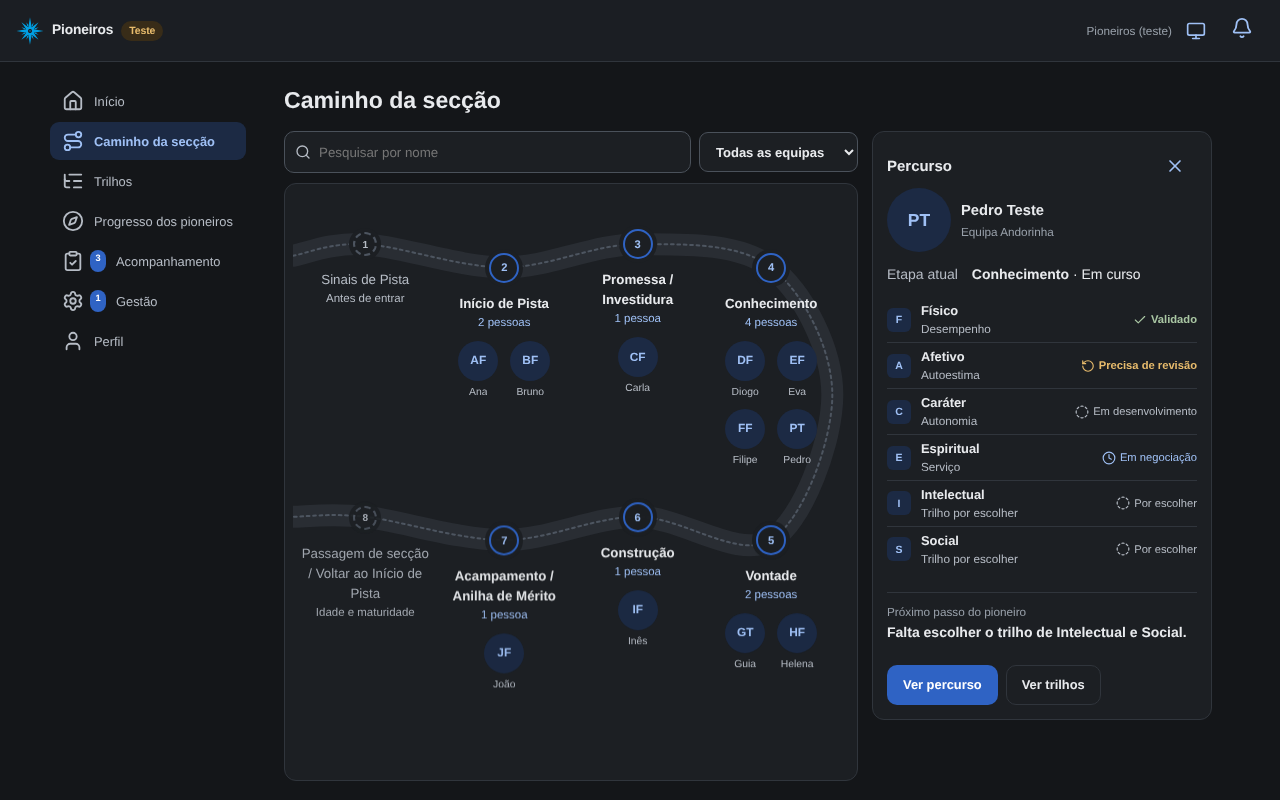
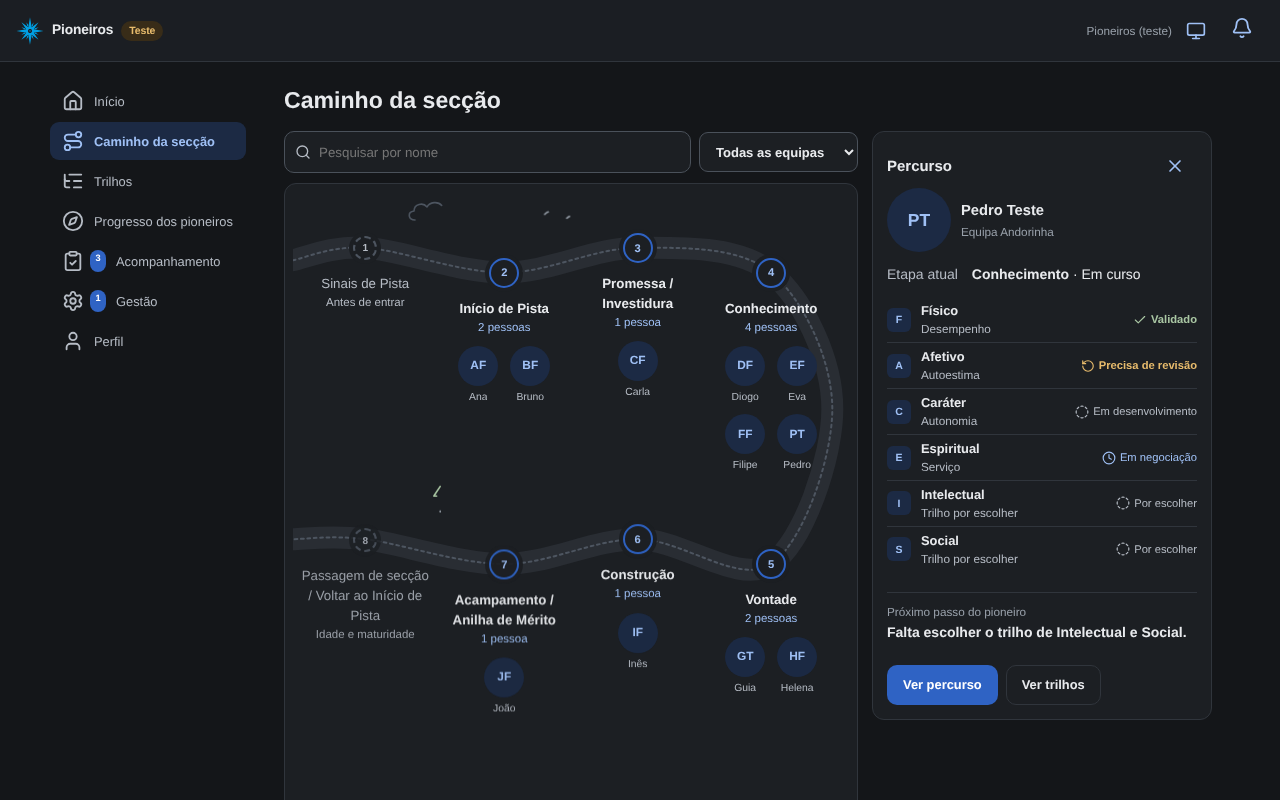
Mapa com desenhos animados em traço de lápis
- Pinheiros, árvores, nuvens, pássaros e um acampamento (tenda e fogueira)
  desenhados à mão nos espaços livres do mapa, sem tapar marcos nem pessoas
- Desenham-se ao abrir (traço a traço) e depois mexem-se devagar: árvores
  ao vento, nuvens a passar, pássaros a voar, fogueira a tremeluzir
- No percurso pessoal, uma bandeira a ondular marca «estás aqui»
- Só decoração (aria-hidden, sem cliques); com movimento reduzido ficam parados

Claude-Session: https://claude.ai/code/session_01RHnng4HnqckYC12h8qqyAi

diff --git a/src/components/caminho/Doodles.tsx b/src/components/caminho/Doodles.tsx
@@ -1,0 +1,130 @@
+// Desenhos do mapa, em traço de lápis: pinheiros, árvores, nuvens, pássaros e um
+// acampamento. São só decoração (aria-hidden, sem cliques) e ficam nos espaços
+// livres, sem tapar marcos nem pessoas. Desenham-se ao abrir e depois mexem-se
+// devagar; com «movimento reduzido» ficam parados.
+import type { CSSProperties, ReactNode } from 'react';
+
+type Kind = 'pine' | 'tree' | 'cloud' | 'birds' | 'tent' | 'fire' | 'flag' | 'grass';
+
+const SIZE: Record<Kind, [number, number]> = {
+  pine: [28, 40], tree: [32, 38], cloud: [62, 26], birds: [44, 20], tent: [58, 40], fire: [30, 34], flag: [26, 34], grass: [30, 12],
+};
+
+function Shape({ kind }: { kind: Kind }): ReactNode {
+  const p = { pathLength: 1, vectorEffect: 'non-scaling-stroke' as const };
+  switch (kind) {
+    case 'pine':
+      return (
+        <g className="sway">
+          <path {...p} className="ink-green" d="M14 3 L6 15 H10 L4 25 H9 L2 34 H26 L19 25 H24 L18 15 H22 Z" />
+          <path {...p} className="ink-soft" d="M14 34 V39" />
+        </g>
+      );
+    case 'tree':
+      return (
+        <g className="sway">
+          <path {...p} className="ink-green fill-green" d="M16 4 C8 4 4 10 6 15 C2 18 4 26 11 26 C13 29 20 29 22 26 C29 26 31 18 27 15 C29 9 24 4 16 4 Z" />
+          <path {...p} className="ink-soft" d="M16 26 V37 M16 31 L12 27 M16 30 L20 26" />
+        </g>
+      );
+    case 'cloud':
+      return (
+        <g className="drift">
+          <path {...p} className="ink-faint fill-card" d="M10 22 C3 22 2 14 9 13 C9 6 18 4 22 9 C25 3 36 3 38 10 C44 6 53 9 52 15 C59 15 60 22 53 22 Z" />
+        </g>
+      );
+    case 'birds':
+      return (
+        <g className="flap">
+          <path {...p} className="ink-soft" d="M2 10 Q7 4 11 9 Q15 4 20 10" />
+          <path {...p} className="ink-soft" d="M24 15 Q28 10 31 14 Q34 10 38 15" />
+        </g>
+      );
+    case 'tent':
+      return (
+        <g>
+          <path {...p} className="ink-accent fill-tint" d="M4 37 L29 5 L54 37 Z" />
+          <path {...p} className="ink-accent" d="M29 5 L29 37 M22 37 L29 22 L36 37 M26 5 L29 1 L32 5" />
+          <path {...p} className="ink-soft" d="M1 38 H57" />
+        </g>
+      );
+    case 'fire':
+      return (
+        <g>
+          <g className="flicker">
+            <path {...p} className="ink-amber fill-amber" d="M15 4 C19 11 24 14 22 21 C21 26 9 26 8 21 C7 16 12 14 11 9 C13 11 14 12 15 4 Z" />
+            <path {...p} className="ink-amber" d="M15 14 C17 17 18 19 17 22 C16 24 13 24 13 22 C12 20 14 18 15 14 Z" />
+          </g>
+          <path {...p} className="ink-soft" d="M4 31 L26 25 M4 25 L26 31" />
+        </g>
+      );
+    case 'flag':
+      return (
+        <g>
+          <path {...p} className="ink-soft" d="M5 33 V3" />
+          <path {...p} className="ink-accent fill-tint wave" d="M5 4 C11 1 15 7 22 4 V16 C15 19 11 13 5 16 Z" />
+        </g>
+      );
+    case 'grass':
+      return <path {...p} className="ink-green" d="M2 11 Q4 4 6 11 M8 11 Q11 2 13 11 M16 11 Q18 5 20 11 M22 11 Q25 3 27 11" />;
+  }
+}
+
+export interface DoodleSpot {
+  kind: Kind;
+  /** Posição: no computador em % (x, y); no telemóvel x em % e y em px. */
+  at?: [string, string];
+  scale?: number;
+  delay?: number;
+}
+
+export function Doodle({ kind, at, scale = 1, delay = 0, className = '' }: DoodleSpot & { className?: string }) {
+  const [w, h] = SIZE[kind];
+  const style = { ...(at ? { left: at[0], top: at[1] } : {}), width: w * scale, height: h * scale, '--d': `${delay}ms` } as CSSProperties;
+  return (
+    <svg className={`doodle ${className}`} style={style} viewBox={`0 0 ${w} ${h}`} aria-hidden="true" focusable="false">
+      <Shape kind={kind} />
+    </svg>
+  );
+}
+
+// Computador: nuvens e pássaros em cima, árvores nos intervalos entre colunas,
+// e um pequeno acampamento em baixo.
+const WIDE_SPOTS: DoodleSpot[] = [
+  { kind: 'cloud', at: ['22%', '1%'], delay: 100 },
+  { kind: 'birds', at: ['47%', '2%'], delay: 250 },
+  { kind: 'cloud', at: ['70%', '0.5%'], scale: 0.8, delay: 400 },
+  { kind: 'pine', at: ['24.5%', '47%'], scale: 0.8, delay: 300 },
+  { kind: 'tree', at: ['48.6%', '46%'], scale: 0.8, delay: 450 },
+  { kind: 'pine', at: ['72.6%', '47%'], scale: 0.85, delay: 600 },
+  { kind: 'pine', at: ['4%', '89%'], delay: 500 },
+  { kind: 'tree', at: ['9%', '88%'], scale: 0.9, delay: 600 },
+  { kind: 'grass', at: ['30%', '95%'], delay: 700 },
+  { kind: 'fire', at: ['60%', '89%'], delay: 800 },
+  { kind: 'tent', at: ['65%', '87.5%'], delay: 900 },
+  { kind: 'pine', at: ['88%', '88%'], scale: 0.9, delay: 1000 },
+  { kind: 'pine', at: ['92%', '87%'], delay: 1100 },
+];
+
+// Telemóvel: pinheiros à esquerda do trilho quando ele faz curva para a direita,
+// nuvens em cima e o acampamento no fim.
+export function narrowSpots(step: number, top: number, height: number): DoodleSpot[] {
+  const trees: DoodleSpot[] = [1, 3, 5].map((i, n) => ({ kind: n % 2 ? 'tree' : 'pine', at: ['1%', `${top + i * step - 12}px`], scale: 0.7, delay: 200 + n * 150 }));
+  return [
+    { kind: 'cloud', at: ['58%', '2px'], scale: 0.7, delay: 100 },
+    { kind: 'birds', at: ['80%', '10px'], scale: 0.8, delay: 250 },
+    ...trees,
+    { kind: 'pine', at: ['46%', `${height - 52}px`], scale: 0.9, delay: 700 },
+    { kind: 'fire', at: ['60%', `${height - 42}px`], scale: 0.9, delay: 850 },
+    { kind: 'tent', at: ['70%', `${height - 50}px`], delay: 1000 },
+  ];
+}
+
+export function MapDoodles({ narrow }: { narrow: DoodleSpot[] }) {
+  return (
+    <div className="doodles" aria-hidden="true">
+      {WIDE_SPOTS.map((s, i) => <Doodle key={`w${i}`} {...s} className="only-wide" />)}
+      {narrow.map((s, i) => <Doodle key={`n${i}`} {...s} className="only-narrow" />)}
+    </div>
+  );
+}

diff --git a/src/styles.css b/src/styles.css
@@ -678,3 +678,44 @@ details.more-inner > summary { font-weight: 600; color: var(--ink); }
   .track-step .avatar-btn { width: 50px; }
   .track-step .people-row { gap: 6px 2px; }
 }
+
+/* Desenhos do mapa (traço de lápis) */
+.doodles { position: absolute; inset: 0; pointer-events: none; }
+.doodle { position: absolute; overflow: visible; pointer-events: none; }
+.doodle path { fill: none; stroke-width: 1.6px; stroke-linecap: round; stroke-linejoin: round; }
+.doodle .ink-green { stroke: var(--green-ink); }
+.doodle .ink-soft { stroke: var(--ink-faint); }
+.doodle .ink-faint { stroke: var(--path-edge); }
+.doodle .ink-accent { stroke: var(--accent-ink); }
+.doodle .ink-amber { stroke: var(--amber); }
+.doodle .fill-green { fill: var(--green-tint); }
+.doodle .fill-card { fill: var(--card); }
+.doodle .fill-tint { fill: var(--accent-tint); }
+.doodle .fill-amber { fill: var(--amber-tint); }
+.only-wide { display: none; }
+@media (min-width: 760px) { .only-wide { display: block; } .only-narrow { display: none; } .trail-map { height: 620px; } details.more .trail-map { height: 380px; } }
+.here-flag { position: absolute; left: 4px; top: -44px; width: 26px; height: 34px; z-index: 2; }
+@media (min-width: 760px) { .here-flag { left: calc(50% + 6px); } }
+.sway, .drift, .flap, .flicker, .wave { transform-box: fill-box; }
+.sway { transform-origin: 50% 100%; }
+.flicker { transform-origin: 50% 100%; }
+.wave { transform-origin: 0% 50%; }
+@media (prefers-reduced-motion: no-preference) {
+  /* 1) desenham-se como se fosse à mão */
+  .doodle path { stroke-dasharray: 1; stroke-dashoffset: 1; animation: doodle-draw 1100ms ease-out forwards; animation-delay: var(--d, 0ms); }
+  .doodle .fill-green, .doodle .fill-card, .doodle .fill-tint, .doodle .fill-amber { fill-opacity: 0; animation: doodle-draw 1100ms ease-out forwards, doodle-fill 500ms ease-out forwards; animation-delay: var(--d, 0ms), calc(var(--d, 0ms) + 900ms); }
+  /* 2) depois mexem-se devagar */
+  .sway { animation: sway 4.5s ease-in-out infinite; animation-delay: calc(var(--d, 0ms) + 1200ms); }
+  .drift { animation: drift 14s ease-in-out infinite alternate; }
+  .flap { animation: flap 1.6s ease-in-out infinite, glide 18s linear infinite alternate; }
+  .flicker { animation: flicker 0.9s ease-in-out infinite alternate; }
+  .wave { animation: wave 1.8s ease-in-out infinite; }
+}
+@keyframes doodle-draw { to { stroke-dashoffset: 0; } }
+@keyframes doodle-fill { to { fill-opacity: 1; } }
+@keyframes sway { 0%, 100% { transform: rotate(-2deg); } 50% { transform: rotate(2deg); } }
+@keyframes drift { from { transform: translateX(-10px); } to { transform: translateX(14px); } }
+@keyframes flap { 0%, 100% { transform: scaleY(1); } 50% { transform: scaleY(0.6); } }
+@keyframes glide { from { translate: -12px 0; } to { translate: 20px -4px; } }
+@keyframes flicker { from { transform: scale(0.94, 0.9); opacity: 0.85; } to { transform: scale(1.04, 1.06); opacity: 1; } }
+@keyframes wave { 0%, 100% { transform: skewY(0deg) scaleX(1); } 50% { transform: skewY(-5deg) scaleX(0.94); } }

diff --git a/src/components/caminho/Track.tsx b/src/components/caminho/Track.tsx
@@ -7,6 +7,7 @@ import { Check } from 'lucide-react';
 import { MILESTONES, type MilestoneKey } from '../../lib/caminho';
 import type { PathMember } from '../../lib/api';
 import { Avatar } from '../ui';
+import { Doodle, MapDoodles, narrowSpots } from './Doodles';
 
 export type StepStatus = 'feito' | 'atual' | 'por_vir' | 'info' | 'neutro' | 'ocupado';
 
@@ -69,6 +70,7 @@ export function Track({ steps, label }: { steps: Record<MilestoneKey, TrackStep>
     <div className="trail-map" style={{ '--nh': `${NARROW_HEIGHT}px` } as CSSProperties}>
       <MapPath className="map-wide" viewBox="0 0 100 100" d={smooth(widePts)} done={wideDone} />
       <MapPath className="map-narrow" viewBox={`0 0 100 ${NARROW_HEIGHT}`} d={smooth(narrowAll)} done={narrowDone} />
+      <MapDoodles narrow={narrowSpots(STEP, 34, NARROW_HEIGHT)} />
       <ol className="track" aria-label={label}>
         {MILESTONES.map((m, i) => {
           const s = steps[m.key];
@@ -78,6 +80,7 @@ export function Track({ steps, label }: { steps: Record<MilestoneKey, TrackStep>
           return (
             <li key={m.key} className={`track-step st-${s.status}`} style={style} aria-current={s.status === 'atual' ? 'step' : undefined}>
               <span className="track-dot" aria-hidden="true">{s.status === 'feito' ? <Check size={14} /> : i + 1}</span>
+              {s.status === 'atual' && <Doodle kind="flag" className="here-flag" delay={900} />}
               <div className="track-main">
                 <div className="track-head">
                   <strong>{m.name}</strong>
